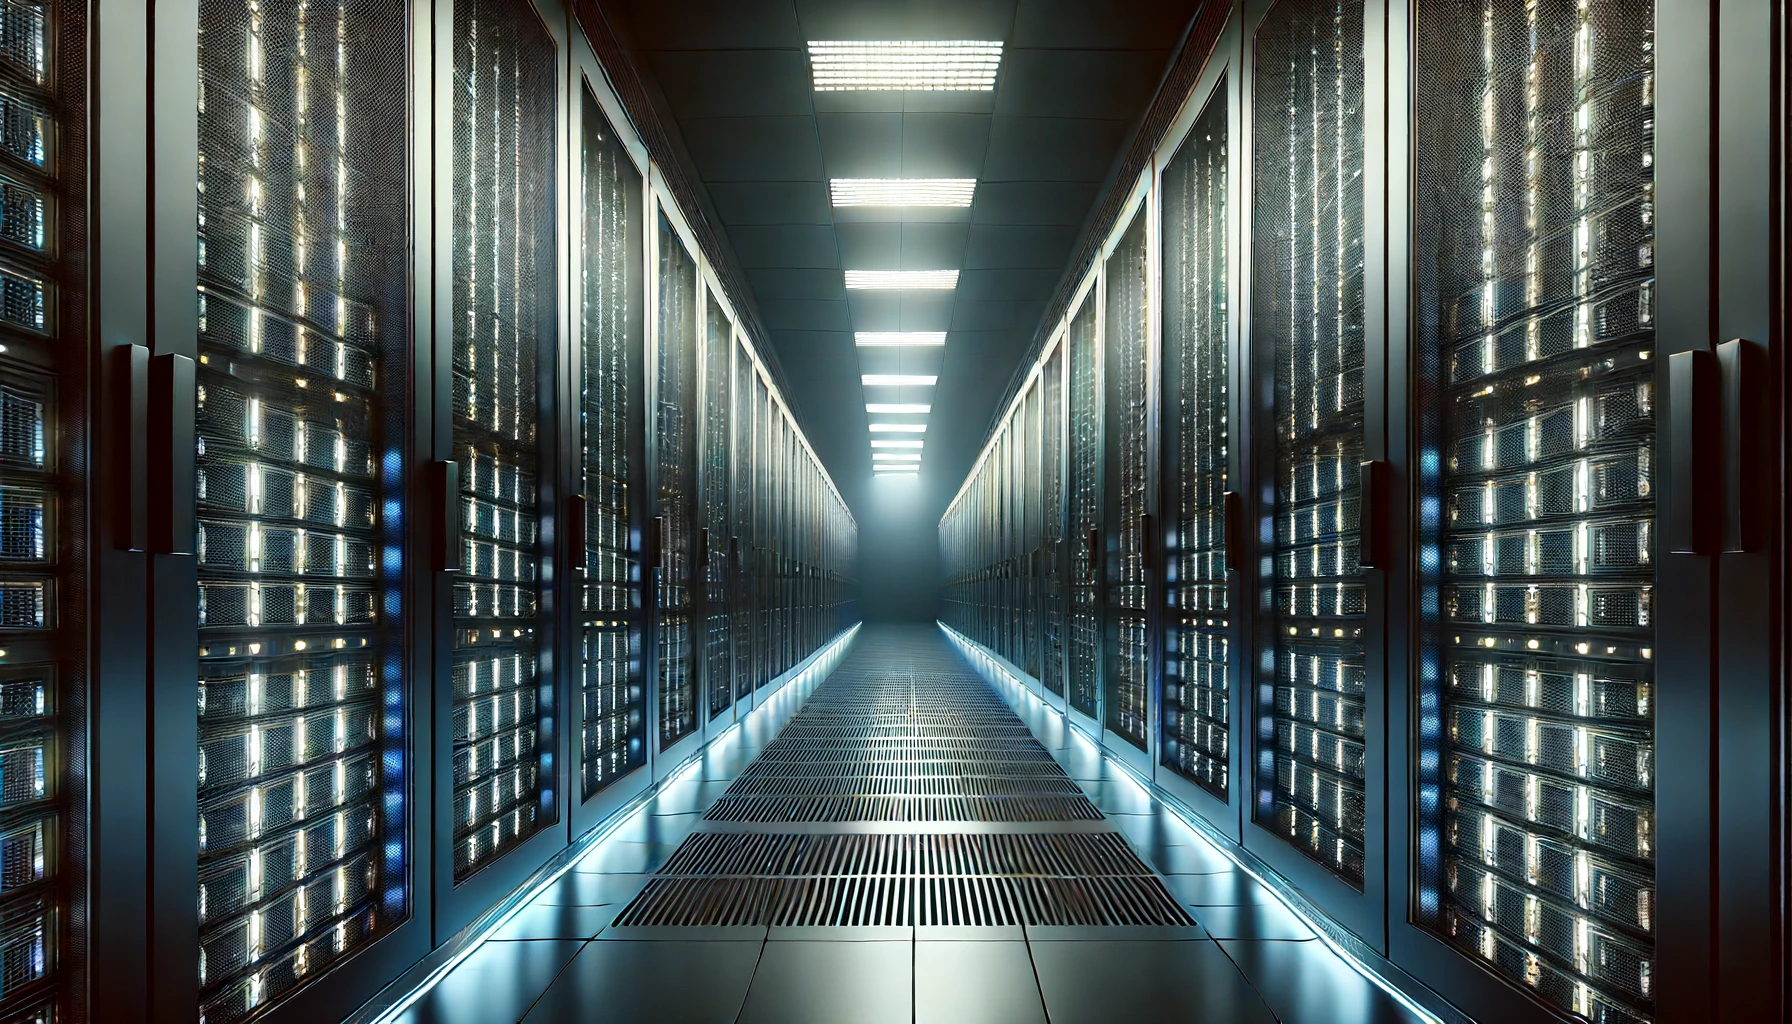
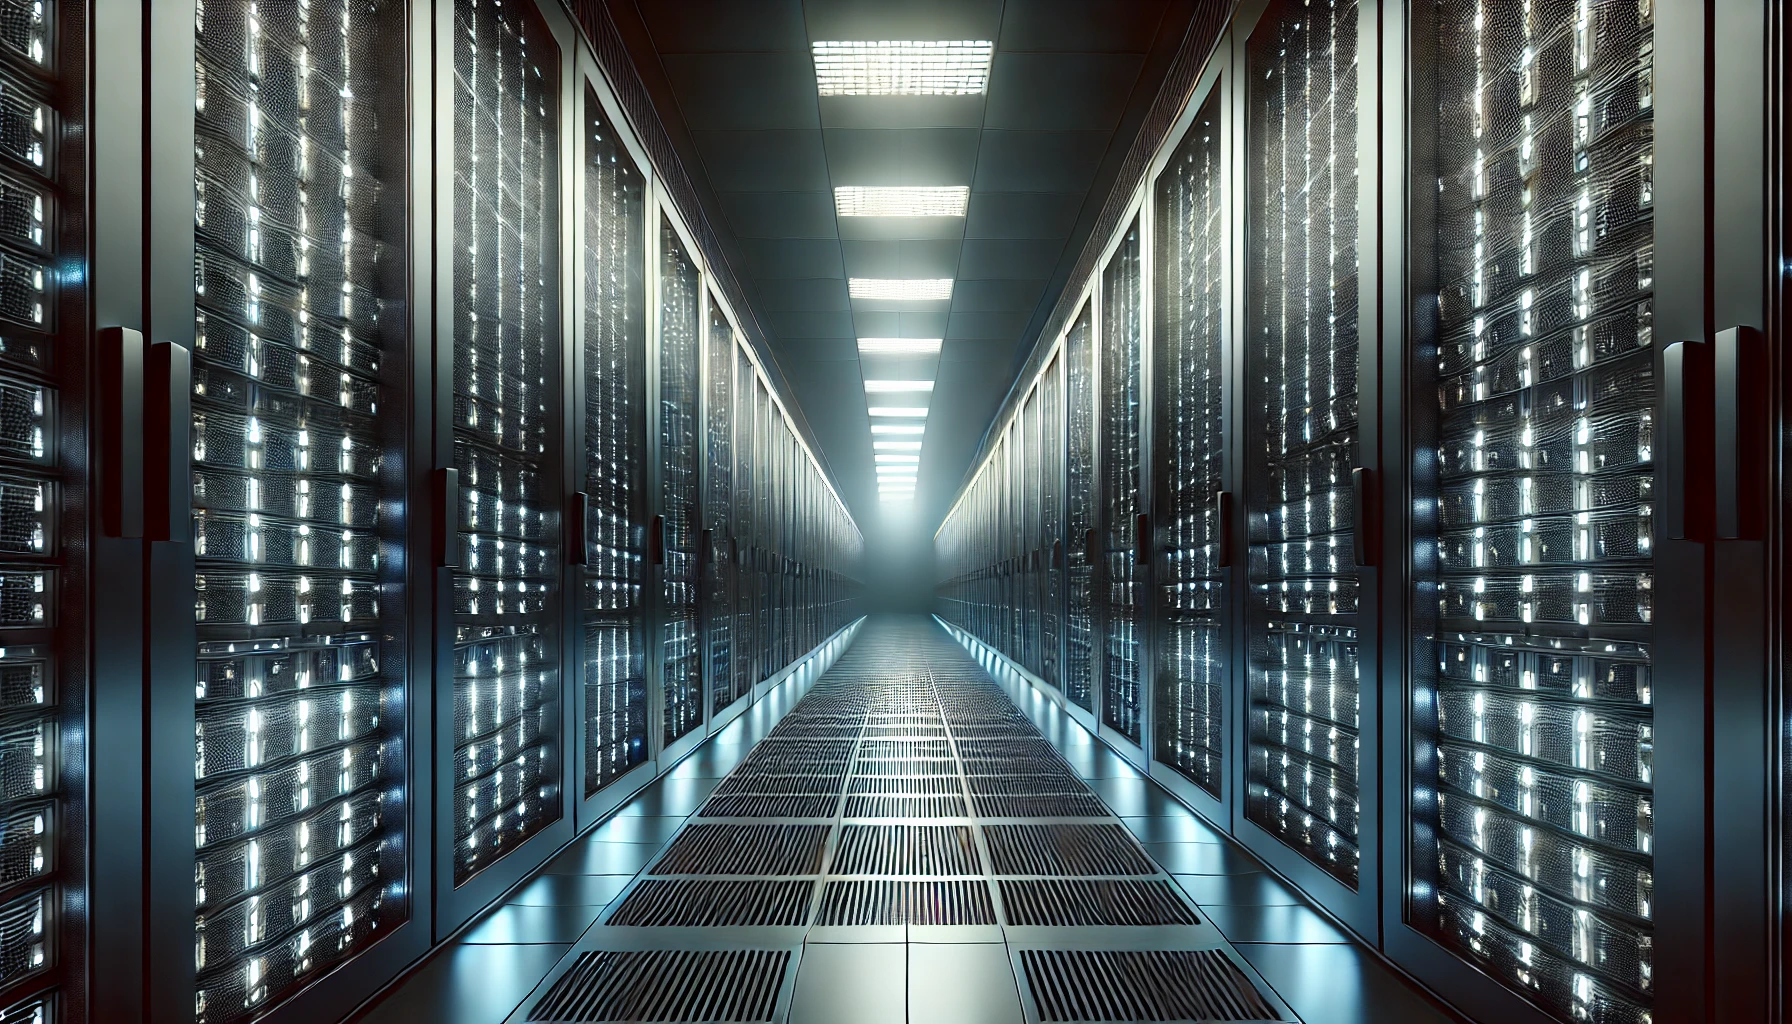
parallax fix

diff --git a/app.js b/app.js
@@ -6,6 +6,7 @@ document.getElementById("about").addEventListener("click", () => {
         top: elementPosition + window.scrollY - 140,
         behavior: "smooth",
     });
+    document.querySelector(".links").classList.remove("display");
 });
 
 document.getElementById("career").addEventListener("click", () => {
@@ -16,6 +17,7 @@ document.getElementById("career").addEventListener("click", () => {
         top: elementPosition + window.scrollY,
         behavior: "smooth",
     });
+    document.querySelector(".links").classList.remove("display");
 });
 
 document.getElementById("experience").addEventListener("click", () => {
@@ -26,6 +28,7 @@ document.getElementById("experience").addEventListener("click", () => {
         top: elementPosition + window.scrollY,
         behavior: "smooth",
     });
+    document.querySelector(".links").classList.remove("display");
 });
 
 document.getElementById("contact").addEventListener("click", () => {
@@ -36,6 +39,7 @@ document.getElementById("contact").addEventListener("click", () => {
         top: elementPosition + window.scrollY,
         behavior: "smooth",
     });
+    document.querySelector(".links").classList.remove("display");
 });
 
 const burger = document.querySelector(".burger");
@@ -46,6 +50,7 @@ logo.addEventListener("click", () => {
         top: 0,
         behavior: "smooth",
     });
+    document.querySelector(".links").classList.remove("display");
 });
 
 burger.addEventListener("click", () => {
@@ -82,6 +87,13 @@ window.addEventListener("scroll", () => {
     });
 });
 
+window.addEventListener("scroll", function () {
+    const scrolled = window.scrollY;
+    document.querySelector(
+        ".parallax-background"
+    ).style.transform = `translateY(${scrolled * 0.8}px)`;
+});
+
 document.addEventListener("DOMContentLoaded", () => {
     const content = {
         fr: {
@@ -95,7 +107,7 @@ document.addEventListener("DOMContentLoaded", () => {
             about: {
                 title: "Bienvenue sur mon site !",
                 content:
-                    "Je m'appelle Nathan Charlaté, et je suis un développeur web fullstack junior. Formé originellement comme technicien d'atelier en orthopédie, j'ai un profond attrait pour la précision et l'innovation, qualités que j'applique désormais dans le développement de solutions web créatives et efficaces. Polyvalent, je maîtrise aussi bien les technologies modernes de programmation que les techniques de modélisation et d'impression 3D. Ma carrière m'a permis de développer une forte capacité à résoudre des problèmes complexes et a gérer de nombreux problèmes différents, que ce soit en appareillant des amputés de la conception à la fabrication, ou en travaillant en mecanique automobile. Musicien à mes heures perdu, je joue du piano, de la guitare et de la batterie, ce qui nourrit ma créativité et renforce mon esprit d'équipe.",
+                    "Je m'appelle Nathan Charlaté, et je suis un développeur web fullstack junior. Formé originellement comme technicien d'atelier en orthopédie, j'ai un profond attrait pour la précision et l'innovation, qualités que j'applique désormais dans le développement de solutions web créatives et efficaces. Polyvalent, je maîtrise aussi bien les technologies modernes de programmation que les techniques de modélisation et d'impression 3D. Ma carrière m'a permis de développer une forte capacité à résoudre et à gérer de nombreux problèmes différents, que ce soit en appareillant des amputés de la conception à la fabrication, ou en travaillant en mecanique automobile. Musicien à mes heures perdu, je joue du piano, de la guitare et de la batterie, ce qui nourrit ma créativité et renforce mon esprit d'équipe.",
             },
             career: {
                 title: "Mon Parcours",
@@ -123,7 +135,7 @@ document.addEventListener("DOMContentLoaded", () => {
                             {
                                 title: "Fabricaction de prothèses et orthèses",
                                 content:
-                                    "Expertise dans la fabrication personnalisée d'appareils orthopédiques avec des compétences soudure, thermoformage, résines époxy...",
+                                    "Expertise dans la fabrication personnalisée d'appareils orthopédiques avec des compétences en soudure, thermoformage, résines époxy...",
                             },
                             {
                                 title: "Modélisation et Impression 3D",
@@ -215,7 +227,7 @@ document.addEventListener("DOMContentLoaded", () => {
             about: {
                 title: "Welcome to my site!",
                 content:
-                    "My name is Nathan Charlaté, and I am a junior full-stack web developer. Originally trained as an orthopedic workshop technician, I have a deep attraction for precision and innovation, qualities that I now apply in the development of creative and effective web solutions. Versatile, I am proficient in both modern programming technologies and 3D modeling and printing techniques. My career has allowed me to develop a strong ability to solve complex problems and manage many different issues, whether in fitting amputees from design to manufacture, or working in automotive mechanics. A musician in my spare time, I play piano, guitar, and drums, which nourishes my creativity and strengthens my team spirit.",
+                    "My name is Nathan Charlaté, and I am a junior full-stack web developer. Originally trained as an orthopedic workshop technician, I have a deep attraction for precision and innovation, qualities that I now apply in the development of creative and effective web solutions. Versatile, I am proficient in both modern programming technologies and 3D modeling and printing techniques. My career has allowed me to develop a strong ability to solve and manage many different issues, whether in fitting amputees from design to manufacture, or working in automotive mechanics. A musician in my spare time, I play piano, guitar, and drums, which nourishes my creativity and strengthens my team spirit.",
             },
             career: {
                 title: "My Path",

diff --git a/index.html b/index.html
@@ -24,33 +24,42 @@
         <img class="burger navbar" src="images/menu.svg" alt="">
     </div>
 
-    <section class="top">
+    <section class="parallax">
+        <div class="parallax-background"></div>
+        <div class="top">
 
-        <!-- HALL -->
-        <div class="hall">
-            <h1 class="hall-intro">Hello there !</h1>
-        </div>
 
-        <!-- ABOUT -->
-        <div class="about">
-            <div class="about-div">
-                <div class="about-right">
+            <!-- HALL -->
+            <div class="hall">
+                <h1 class="hall-intro">Hello there !</h1>
+            </div>
 
-                    <h2 class="about-title">Qui suis-je ?</h2>
-                    <p class="about-content content">Je m'appelle Nathan Charlaté, et je suis un développeur web
-                        fullstack junior. Formé originellement comme technicien d'atelier en orthopédie, j'ai un profond
-                        attrait pour la précision et l'innovation, qualités que j'applique désormais dans le
-                        développement de solutions web créatives et efficaces. Polyvalent, je maîtrise aussi bien les
-                        technologies modernes de programmation que les techniques de modélisation et d'impression 3D. Ma
-                        carrière m'a permis de développer une forte capacité à résoudre des problèmes complexes et a
-                        gérer de nombreux problèmes différents, que ce soit en appareillant des amputés de la conception
-                        à la fabrication, ou en travaillant en mecanique automobile. Musicien à mes heures perdues, je
-                        joue du piano, de la guitare et de la batterie, ce qui nourrit ma créativité et renforce mon
-                        esprit d'équipe.</p>
-                </div>
-                <div class="about-left">
+            <!-- ABOUT -->
+            <div class="about">
+                <div class="about-div">
+                    <div class="about-right">
 
-                    <img class="about-img" src="/images/IMG_2908.JPEG" alt="me">
+                        <h2 class="about-title">Bienvenue sur mon site !</h2>
+                        <p class="about-content content">Je m'appelle Nathan Charlaté, et je suis un développeur web
+                            fullstack junior. Formé originellement comme technicien d'atelier en orthopédie, j'ai un
+                            profond
+                            attrait pour la précision et l'innovation, qualités que j'applique désormais dans le
+                            développement de solutions web créatives et efficaces. Polyvalent, je maîtrise aussi bien
+                            les
+                            technologies modernes de programmation que les techniques de modélisation et d'impression
+                            3D. Ma
+                            carrière m'a permis de développer une forte capacité à résoudre et à
+                            gérer de nombreux problèmes différents, que ce soit en appareillant des amputés de la
+                            conception
+                            à la fabrication, ou en travaillant en mecanique automobile. Musicien à mes heures perdues,
+                            je
+                            joue du piano, de la guitare et de la batterie, ce qui nourrit ma créativité et renforce mon
+                            esprit d'équipe.</p>
+                    </div>
+                    <div class="about-left">
+
+                        <img class="about-img" src="/images/IMG_2908.JPEG" alt="me">
+                    </div>
                 </div>
             </div>
         </div>
@@ -118,16 +127,20 @@
 
                     <div class="experience-box">
                         <div class="experience-card">
-                            <h4>Fabricaction de prothèses et orthèses</h4>
+                            <h4>Fabrication de prothèses et orthèses</h4>
                             <p>Expertise dans la fabrication personnalisée d'appareils orthopédiques avec des
-                                compétences soudure, thermoformage, résines époxy...</p>
+                                compétences en soudure, thermoformage, résines époxy...</p>
                             <img src="/images/prosthetic-leg.svg" alt="">
                         </div>
                         <div class="experience-card">
                             <h4>Modélisation et Impression 3D</h4>
                             <p>Spécialisé dans les techniques de conception et d'impression 3D, notamment pour les
                                 applications médicales. (AutoDesk Fusion 360, Blender, Cura...)</p>
-                            <img src="/images/3d-printer.svg" alt="">
+                            <div class="icon-group">
+                                <img src="/images/3d-printer.svg" alt="">
+                                <img src="/images/fusion-360.svg" alt="">
+                                <img src="/images/blender.svg" alt="">
+                            </div>
                         </div>
                     </div>
                 </div>

diff --git a/css/style.css b/css/style.css
@@ -43,6 +43,7 @@ TOP
 }
 
 .links {
+    z-index: 2;
     position: fixed;
     right: 0;
     top: -400px;
@@ -80,25 +81,49 @@ TOP
 HALL
 ////////////////////////*/
 
+.parallax {
+    position: relative;
+    overflow: hidden;
+    height: fit-content;
+}
+
+.parallax-background {
+    height: 150vh;
+    position: absolute;
+    top: -10%;
+    left: 0;
+    right: 0;
+    bottom: 0;
+    background-image: url("/images/data-center.webp");
+    background-position: center;
+    background-repeat: no-repeat;
+    background-size: cover;
+}
+
 .top {
+    position: relative;
+}
+
+/* .top {
     height: max-content;
     background-image: url("/images/data-center.webp");
     background-attachment: fixed;
     background-position: center;
     background-repeat: no-repeat;
     background-size: cover;
-}
+} */
 
 .hall {
     height: 120vh;
 }
 .hall-intro {
     position: absolute;
-    top: 40vh;
+    top: 50vh;
     left: 10vw;
     font-weight: 900;
     font-size: 2em;
     color: white;
+    text-shadow: 2px 2px 10px black;
     translate: 0 20px;
     transition: translate 1s ease-out;
 }
@@ -142,6 +167,7 @@ ABOUT
     .about-left {
         margin-bottom: 3rem;
         .about-img {
+            z-index: 1;
             width: 100%;
             margin: auto;
             display: block;
@@ -222,7 +248,7 @@ CAREER
 .career-img {
     width: 80%;
     margin: auto;
-    z-index: 2;
+    z-index: 1;
 }
 
 .career-odd,
